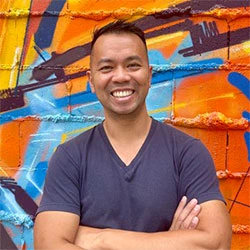
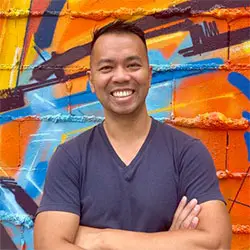
Merge pull request #11 from pbwebdev/perf/round-3
Perf/round 3

Pull request: Perf/round 3

diff --git a/functions.php b/functions.php
@@ -154,37 +154,13 @@ add_action( 'wp_enqueue_scripts', function () {
 	// and the LearnDash login modal rendered as raw HTML above the layout.
 	// Saving was tiny; the breakage was not.
 
-	// LearnDash CSS + JS bundle: only safe to strip on the homepage, which
-	// uses front-page.php (verified to contain no LD shortcodes/blocks/queries).
-	// Going broader was tried in PR #9 and broke course pages — restricted to
-	// is_front_page() only this time. Verified via wp_styles->registered that
-	// nothing else in the registered styles list depends on these handles,
-	// so dequeuing them here doesn't cascade.
+	// LearnDash + GravityForms dequeue on the homepage only.
+	// front-page.php is verified static HTML with no LD/GF shortcodes/blocks.
 	if ( is_front_page() ) {
-		$front_page_ld_handles = array(
-			// styles
-			'learndash',
-			'learndash-front',
-			'learndash-admin-bar',
-			'learndash-course-grid-skin-grid',
-			'learndash-course-grid-pagination',
-			'learndash-course-grid-filter',
-			'learndash-course-grid-card-grid-1',
-			'jquery-dropdown-css',
-			'learndash_lesson_video',
-			'learndash_quiz_front_css',
-			// scripts (SG-Optimizer-combined variants share the same handles)
-			'learndash-front',
-			'learndash-main',
-			'learndash-breakpoints',
-			'learndash-course-grid-skin-grid',
-			'learndash-course-grid-elementor',
-			'jquery-dropdown',
-		);
-		foreach ( $front_page_ld_handles as $h ) {
-			wp_dequeue_style( $h );
-			wp_dequeue_script( $h );
-		}
+		// Marker for the late wp_print_styles handler below — same logic
+		// but at a later hook so it catches plugins (notably GravityForms)
+		// that enqueue past priority 100 of wp_enqueue_scripts.
+		$GLOBALS['lc_front_page_dequeue'] = true;
 	}
 
 	// GravityForms only needed on pages that embed a form.
@@ -211,6 +187,110 @@ add_action( 'wp_enqueue_scripts', function () {
 }, 100 );
 
 /**
+ * Late dequeue pass on the homepage — runs at wp_print_styles / wp_print_scripts
+ * so it fires after every plugin's wp_enqueue_scripts hook, including ones that
+ * enqueue at priorities > 100 (notably GravityForms).
+ *
+ * Handle names below match what is actually present in $wp_scripts->queue and
+ * $wp_styles->queue on the live homepage, not what I inferred from CSS link
+ * IDs in the HTML (those didn't always match the underlying handle name).
+ */
+add_action( 'wp_print_styles', function () {
+	if ( empty( $GLOBALS['lc_front_page_dequeue'] ) ) {
+		return;
+	}
+	$styles = array(
+		// LearnDash bundle (homepage has no LD content).
+		'learndash',
+		'learndash-front',
+		'learndash-admin-bar',
+		'learndash-course-grid-skin-grid',
+		'learndash-course-grid-pagination',
+		'learndash-course-grid-filter',
+		'learndash-course-grid-card-grid-1',
+		'learndash-course-reviews',
+		'jquery-dropdown-css',
+		'learndash_lesson_video',
+		'learndash_quiz_front_css',
+		// GravityForms bundle (no form on the homepage).
+		'gform_basic',
+		'gform_theme',
+		'gform_theme_components',
+		'gform_legacy_multifile',
+		'gform_chosen',
+	);
+	foreach ( $styles as $h ) {
+		wp_dequeue_style( $h );
+	}
+}, 100 );
+
+add_action( 'wp_print_scripts', function () {
+	if ( empty( $GLOBALS['lc_front_page_dequeue'] ) ) {
+		return;
+	}
+	$scripts = array(
+		// LearnDash JS (verified from live queue).
+		'learndash_pager_js',
+		'learndash_template_script_js',
+		'jquery-dropdown-js',
+		'learndash-course-grid-elementor-compatibility',
+		// GravityForms JS.
+		'gform_gravityforms',
+		'gform_conditional_logic',
+		'gform_json',
+		'gform_textarea_counter',
+		'gform_masked_input',
+		'gform_chosen',
+		'gform_placeholder',
+	);
+	foreach ( $scripts as $h ) {
+		wp_dequeue_script( $h );
+	}
+}, 100 );
+
+/**
+ * Defer non-critical scripts.
+ *
+ * PSI's "render-blocking requests" audit flagged jquery, jquery-migrate,
+ * cardanopress-bootstrap-script, lazysizes, image-watermark, wppopups, and
+ * the WP @wordpress/* runtime bundles (hooks, dom-ready, i18n, a11y) as
+ * blocking. None of them need to execute before first paint:
+ *  - jQuery is still loaded for plugin compat but no inline scripts in our
+ *    header use it before footer.
+ *  - cardanopress-bootstrap-script handles wallet UI, late wiring is fine.
+ *  - lazysizes / image-watermark / wppopups are progressive enhancements.
+ *
+ * jquery-core is left as-is (the WP-bundled handle has too many ad-hoc
+ * inline-script consumers to safely defer site-wide).
+ */
+add_filter( 'script_loader_tag', function ( $tag, $handle ) {
+	if ( is_admin() ) {
+		return $tag;
+	}
+	$defer = array(
+		'jquery-migrate',
+		'cardanopress_bootstrap-script',
+		'cardanopress-script',
+		'cardanopress-notification',
+		'image-watermark-no-right-click',
+		'siteground-optimizer-lazy-sizes-js',
+		'wppopups',
+		'wp-hooks',
+		'wp-dom-ready',
+		'wp-i18n',
+		'wp-a11y',
+	);
+	if ( ! in_array( $handle, $defer, true ) ) {
+		return $tag;
+	}
+	// Don't double-add and don't break tags that already have async/module.
+	if ( false !== strpos( $tag, ' defer ' ) || false !== strpos( $tag, ' async' ) || false !== strpos( $tag, ' type=\'module\'' ) ) {
+		return $tag;
+	}
+	return preg_replace( '/(?=><\/script>)/', ' defer', $tag, 1 );
+}, 10, 2 );
+
+/**
  * Add preconnect / dns-prefetch hints for the third-party origins the
  * site loads on every page (analytics, embedded media). Lets the browser
  * warm DNS + TLS in parallel with HTML parsing instead of waiting until
@@ -220,7 +300,8 @@ add_filter( 'wp_resource_hints', function ( $urls, $relation_type ) {
 	if ( 'preconnect' === $relation_type ) {
 		$urls[] = array( 'href' => 'https://www.googletagmanager.com', 'crossorigin' );
 		$urls[] = array( 'href' => 'https://widget.spreaker.com', 'crossorigin' );
-		$urls[] = array( 'href' => 'https://cdn.jsdelivr.net', 'crossorigin' );
+		// Note: cdn.jsdelivr.net preconnect was removed once Bootstrap was
+		// self-hosted (PR #10) — PSI flagged it as an unused preconnect.
 	}
 	if ( 'dns-prefetch' === $relation_type ) {
 		$urls[] = 'https://i.ytimg.com';